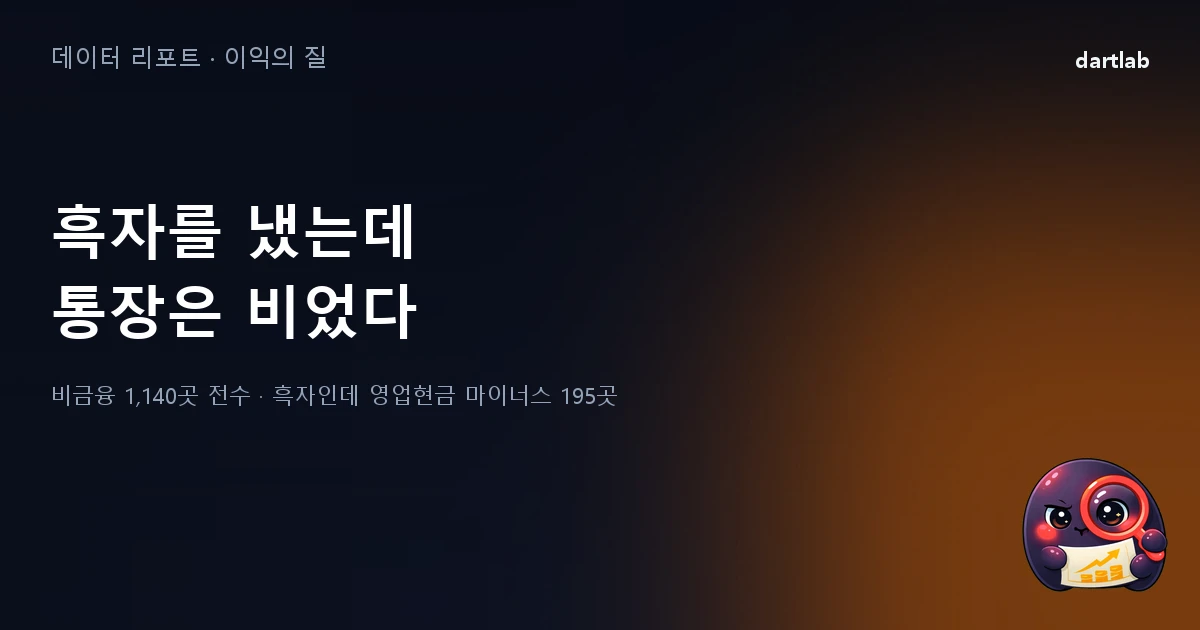
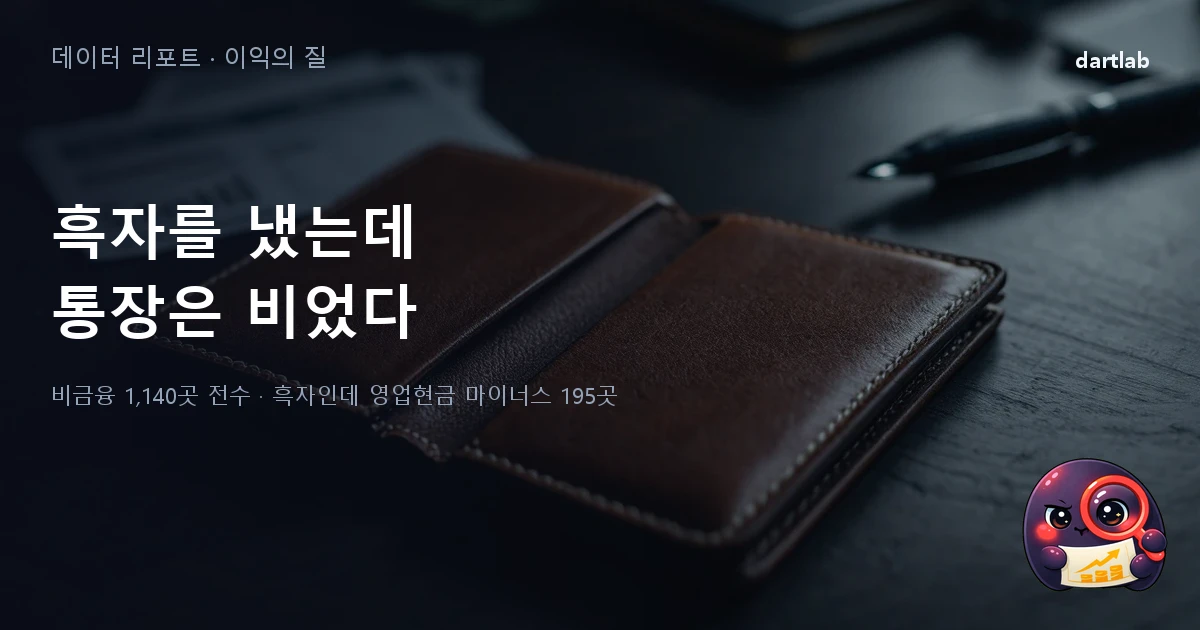
수정: 데이터리포트 04편(흑자인데 통장은 비었다) 썸네일 배경 교체
기존 배경이 어두운 블러로 밋밋해 빈 지갑(장부상 이익, 빈 통장 은유) 실사 배경으로 교체.
운영자 명시 지시로 생성 이미지 수급. og·리스트 카드 썸네일 함께 재생성, CREDITS 기록.

diff --git a/blog/06-data-reports/04-profit-without-cash/assets/CREDITS.md b/blog/06-data-reports/04-profit-without-cash/assets/CREDITS.md
@@ -1,0 +1,3 @@
+# 이미지 출처
+
+- **04-thumbnail-bg.webp**. 생성 이미지(운영자 명시 지시로 제작). 빈 지갑과 흐릿한 재무 서류(장부상 이익, 빈 통장 은유). 실제 인물·상표 없음.
